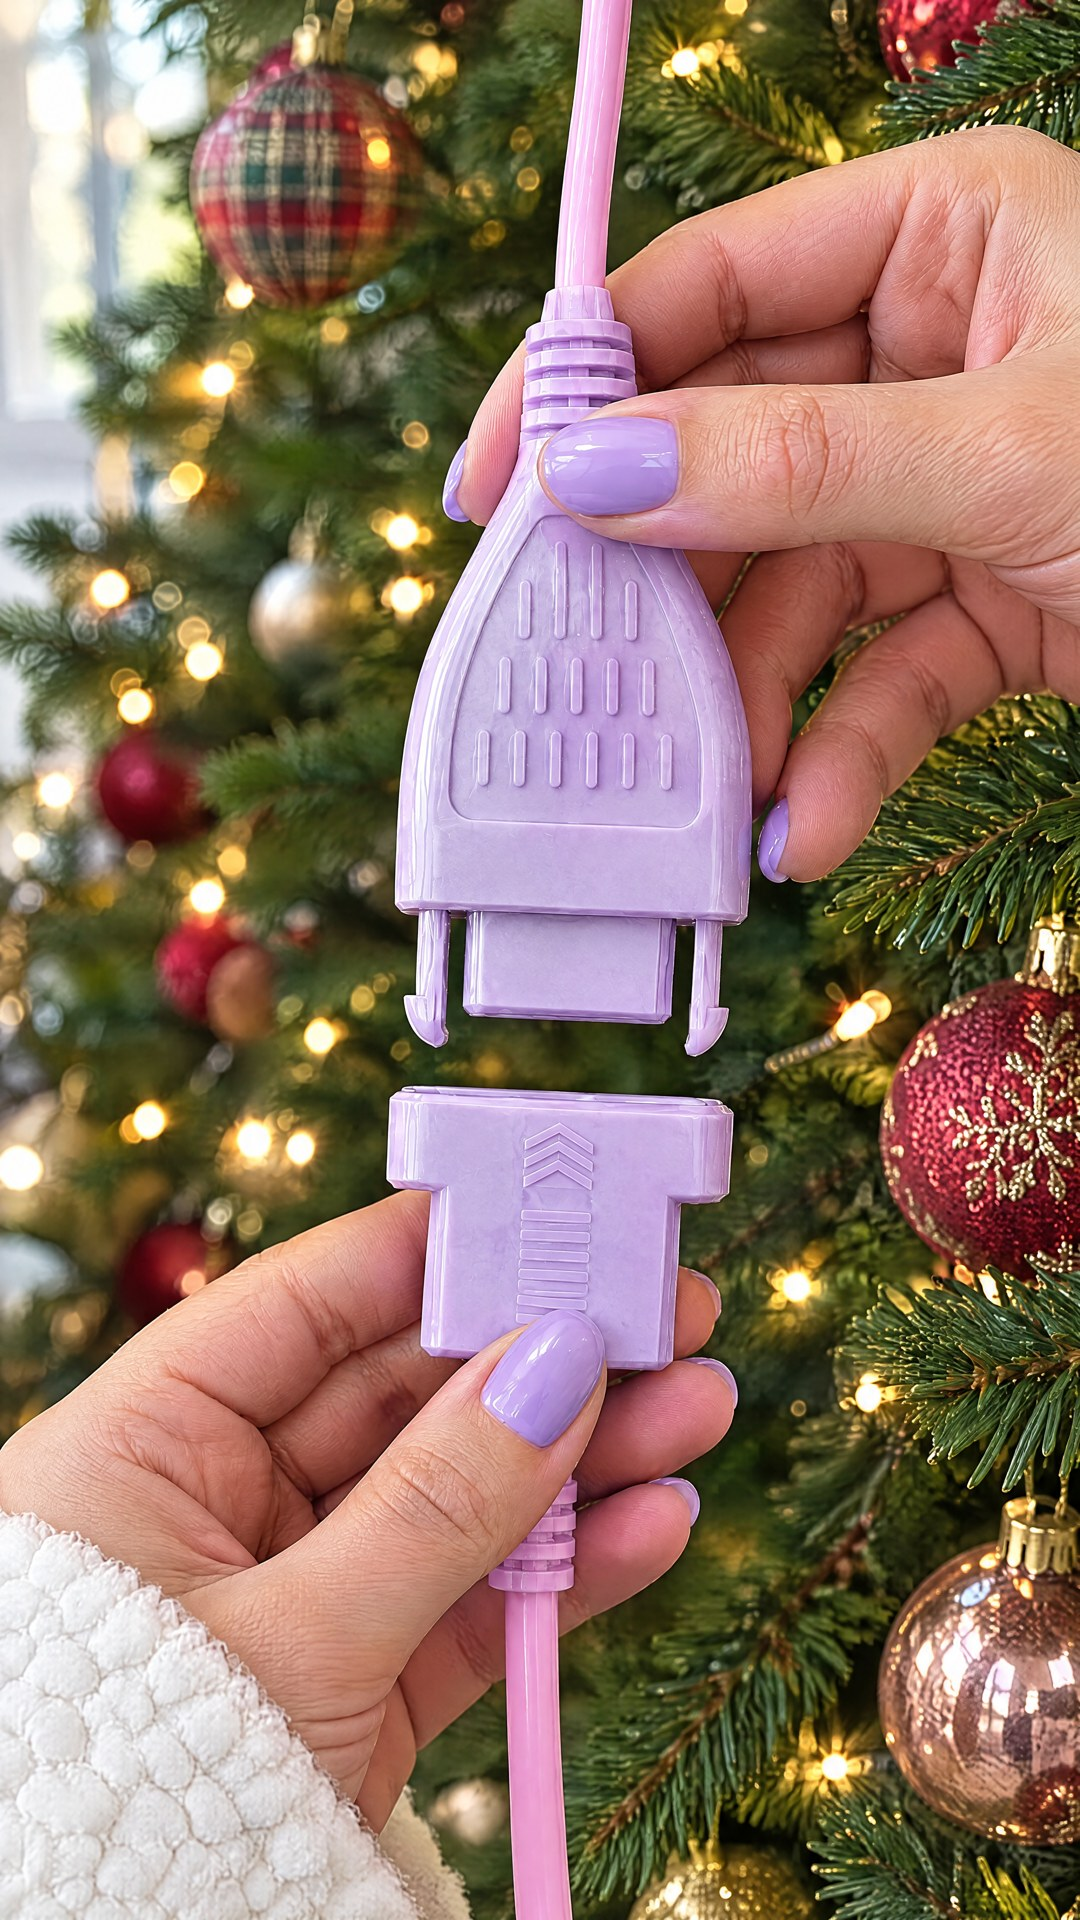
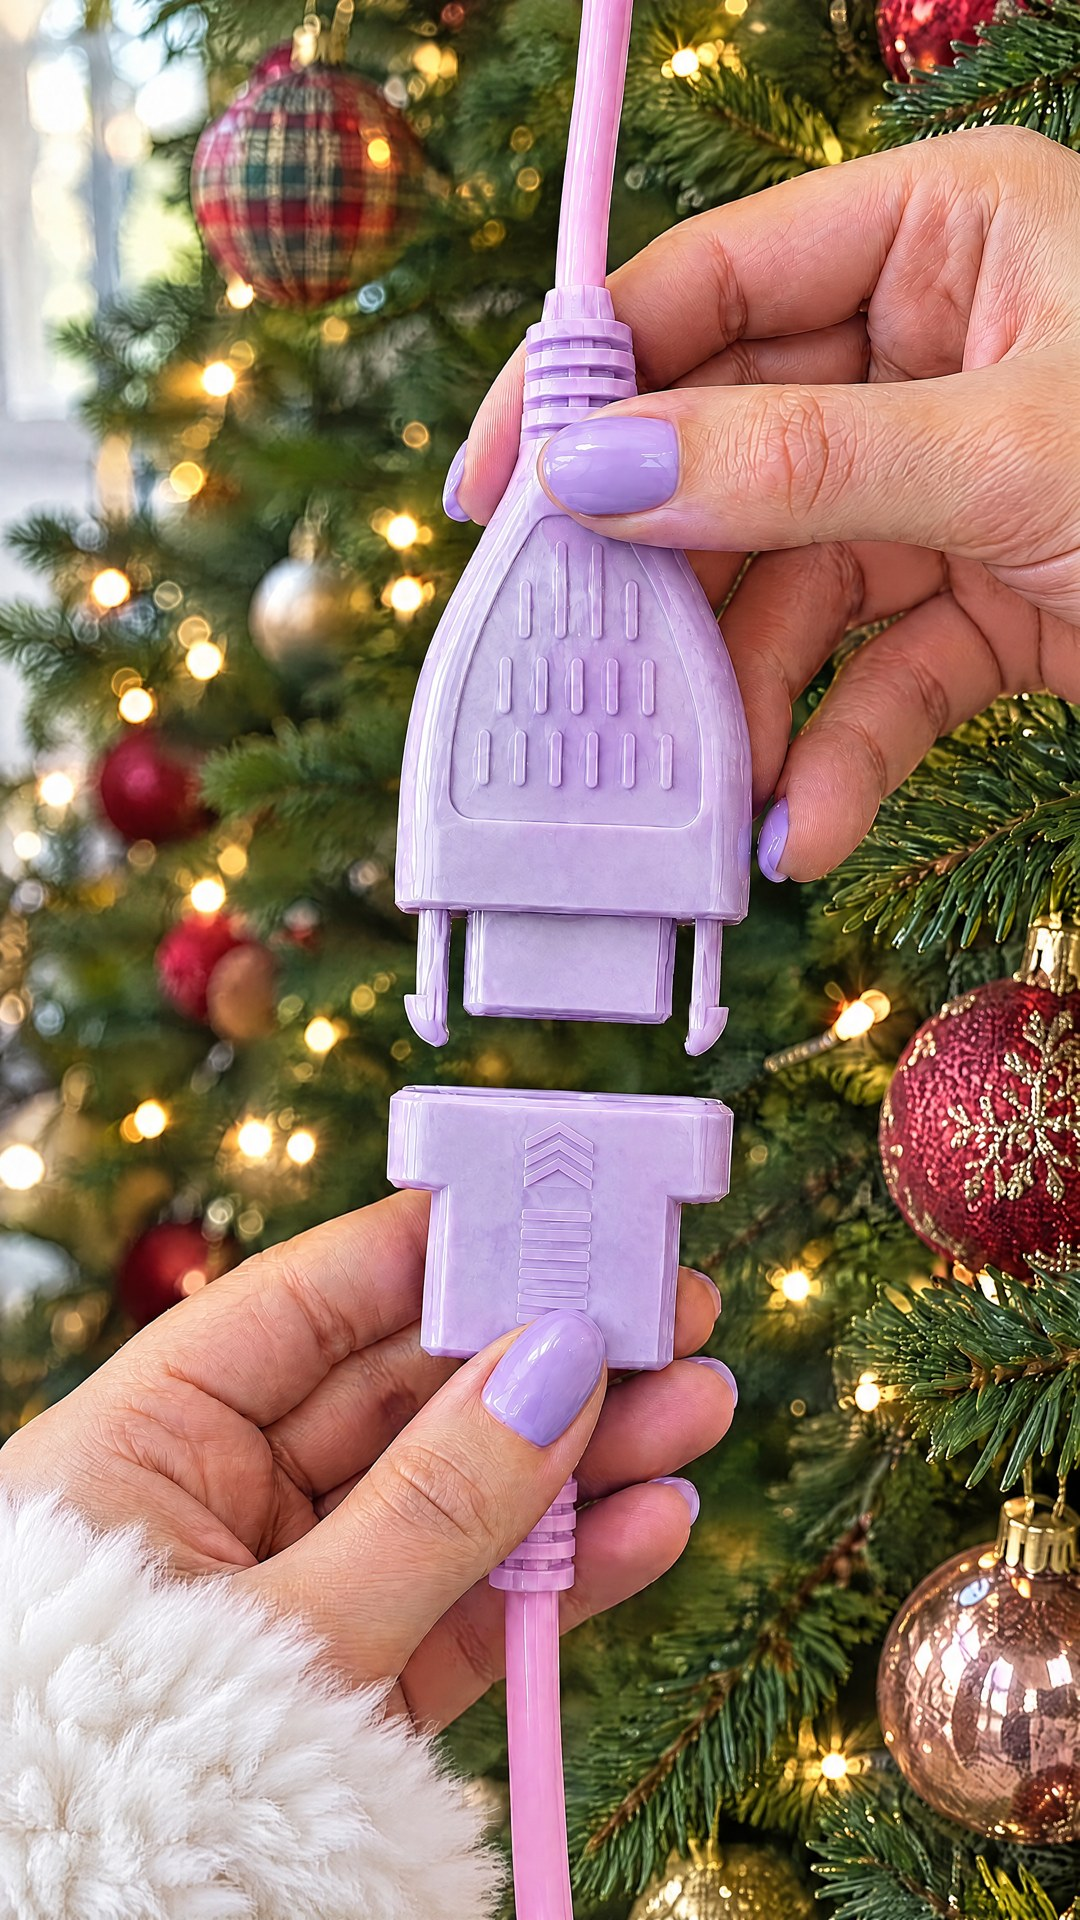
Printesa: telecomanda tiara cu perle, manseta pufoasa; regula iPhone 18 Pro Max
Claude-Session: https://claude.ai/code/session_0182QBD7L6o3B4fpDgewD35i

diff --git a/docs/02-reguli.md b/docs/02-reguli.md
@@ -48,3 +48,4 @@ Format: `- (data) regula — sursa`. Regula mai nouă bate regula mai veche.
 - **13 oct 2026** — Buget producție 20 $/zi (~350–450 credite). Reciclăm cele 10 videouri bune ale lui Szasz și schimbăm doar hook-ul; hook-uri gratuite tăiate din clipurile existente + 6–7 hook-uri Genjutsu noi pe zi; același video exact nu se postează pe două conturi.
 - **13 oct 2026** — Halatul (grumpy green + prințesă) e produsul pe 2026, all in. Secțiunea „Robe 2026” din platformă e creierul lui (date în `config/robe`, copie în `products/robe-brain.json`). Restul produselor = bonus. Prințesa: fără look Disney / Snow White.
 - **13 oct 2026** — Prințesa: doar fete. Telecomanda roz cu modele drăguțe și conectorul roz/mov se fac o singură dată și se refolosesc la toate videourile prințesei. B-roll cu Genjutsu, hook opțional. Modul de lucru e în Robe 2026 → „Make a robe video”, separat de „Make a clip”.
+- **13 oct 2026** — Toate imaginile și videourile: „Shot on iPhone 18 Pro Max” în prompt, look real de telefon (nu render, nu desen). Obiectele noastre (telecomandă, conector) arată ca produse reale fabricate, dar „faine” pentru publicul țintă (prințesă = bijuterie, perle, coroniță).
